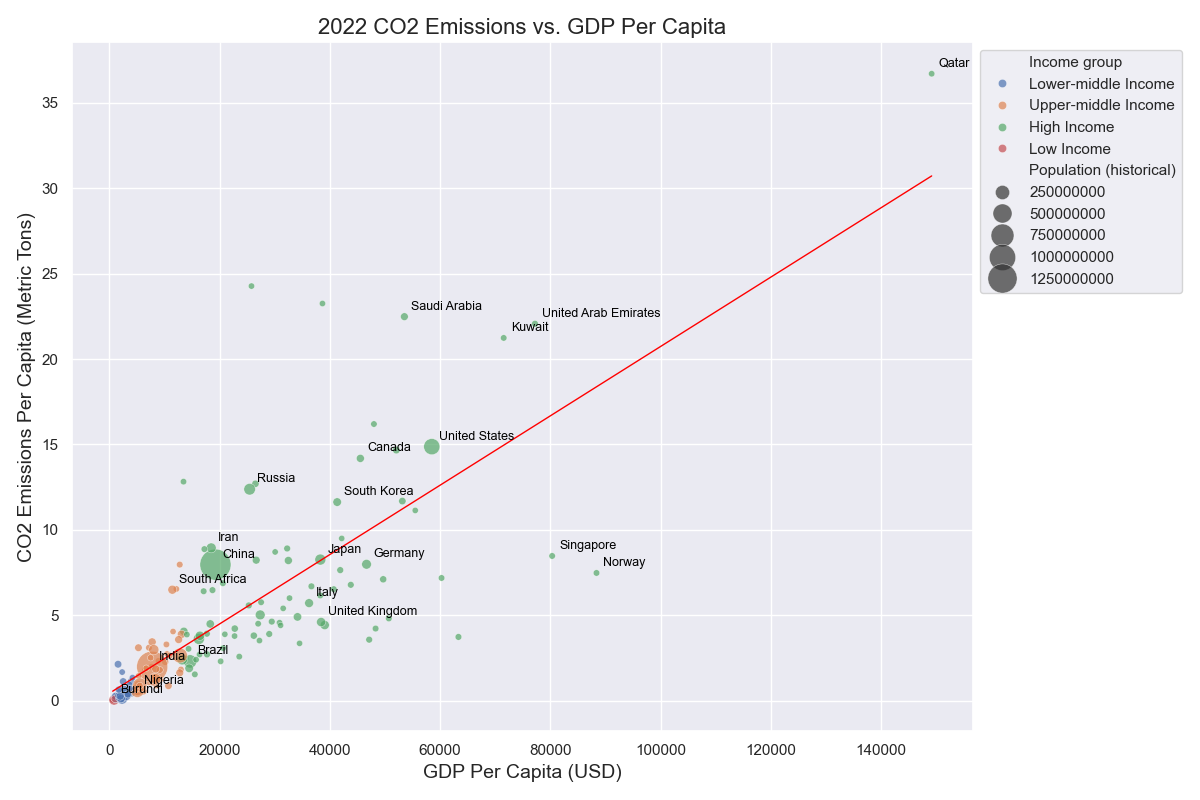
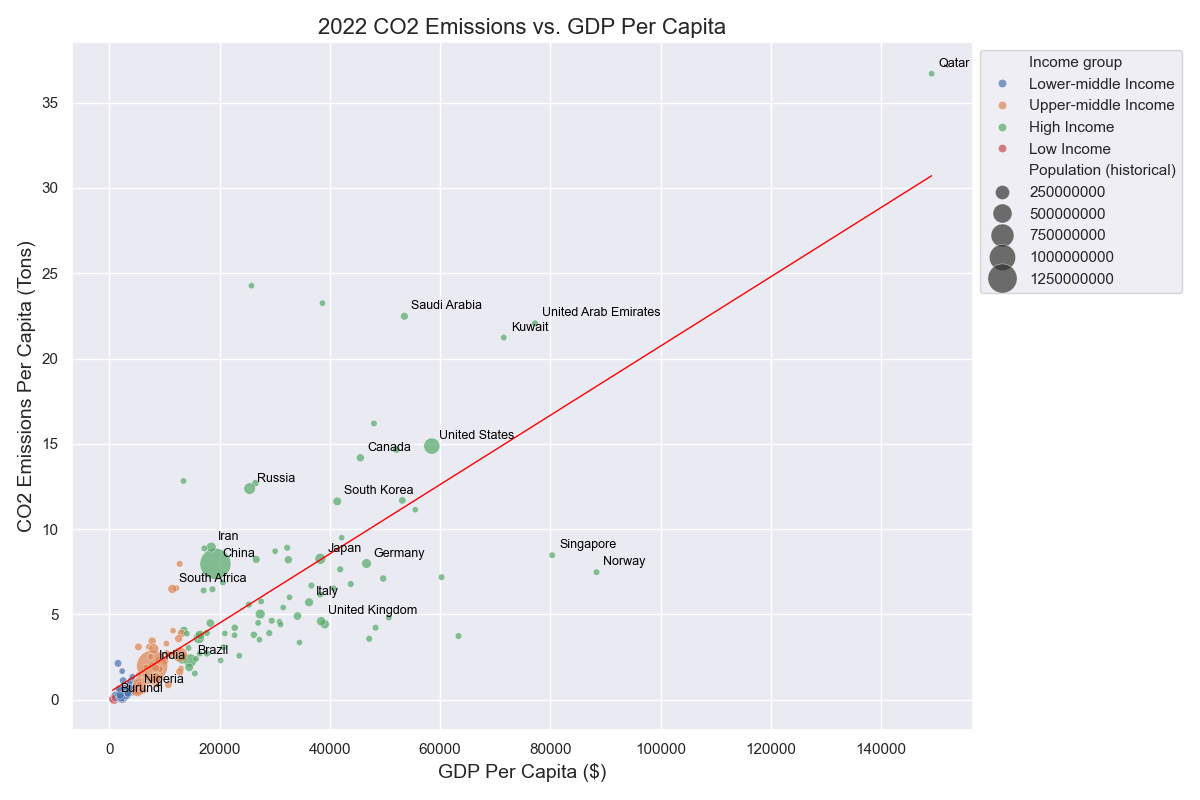
edited graph labels

diff --git a/analysis.py b/analysis.py
@@ -94,7 +94,7 @@ def create_top_10_barplot(countries_2022_df):
         dodge=False
     )
     plt.title('Least carbon efficient countries w.r.t GDP ', fontsize=16)
-    plt.xlabel('CO2 Emissions per $100,000 GDP', fontsize=12)
+    plt.xlabel('CO2 Emissions (tons) per $100,000 GDP', fontsize=12)
     plt.ylabel('Country', fontsize=12)
     plt.legend(title='Income Group', bbox_to_anchor=(1, 1), loc='upper left')
     plt.tight_layout()
@@ -114,7 +114,7 @@ def create_bottom_10_barplot(countries_2022_df):
         dodge=False
     )
     plt.title('Most carbon efficient countries w.r.t economic production ', fontsize=16)
-    plt.xlabel('CO2 Emissions (tonnes) per $100,000 GDP', fontsize=12)
+    plt.xlabel('CO2 Emissions (tons) per $100,000 GDP', fontsize=12)
     plt.ylabel('Country', fontsize=12)
     plt.legend(title='Income Group', bbox_to_anchor=(1, 1), loc='upper left')
     plt.tight_layout()
@@ -134,8 +134,8 @@ def create_headline_plot(countries_2022_df):
     
     # Add labels and title
     plt.title('2022 CO2 Emissions vs. GDP Per Capita', fontsize=16)
-    plt.xlabel('GDP Per Capita (USD)', fontsize=14)
-    plt.ylabel('CO2 Emissions Per Capita (Metric Tons)', fontsize=14)
+    plt.xlabel('GDP Per Capita ($)', fontsize=14)
+    plt.ylabel('CO2 Emissions Per Capita (Tons)', fontsize=14)
     plt.legend(bbox_to_anchor=(1, 1), loc='upper left')
     plt.tight_layout() # Makes sure the graph fits inside the figure
     plt.savefig('headline_figure.png', format='png')
